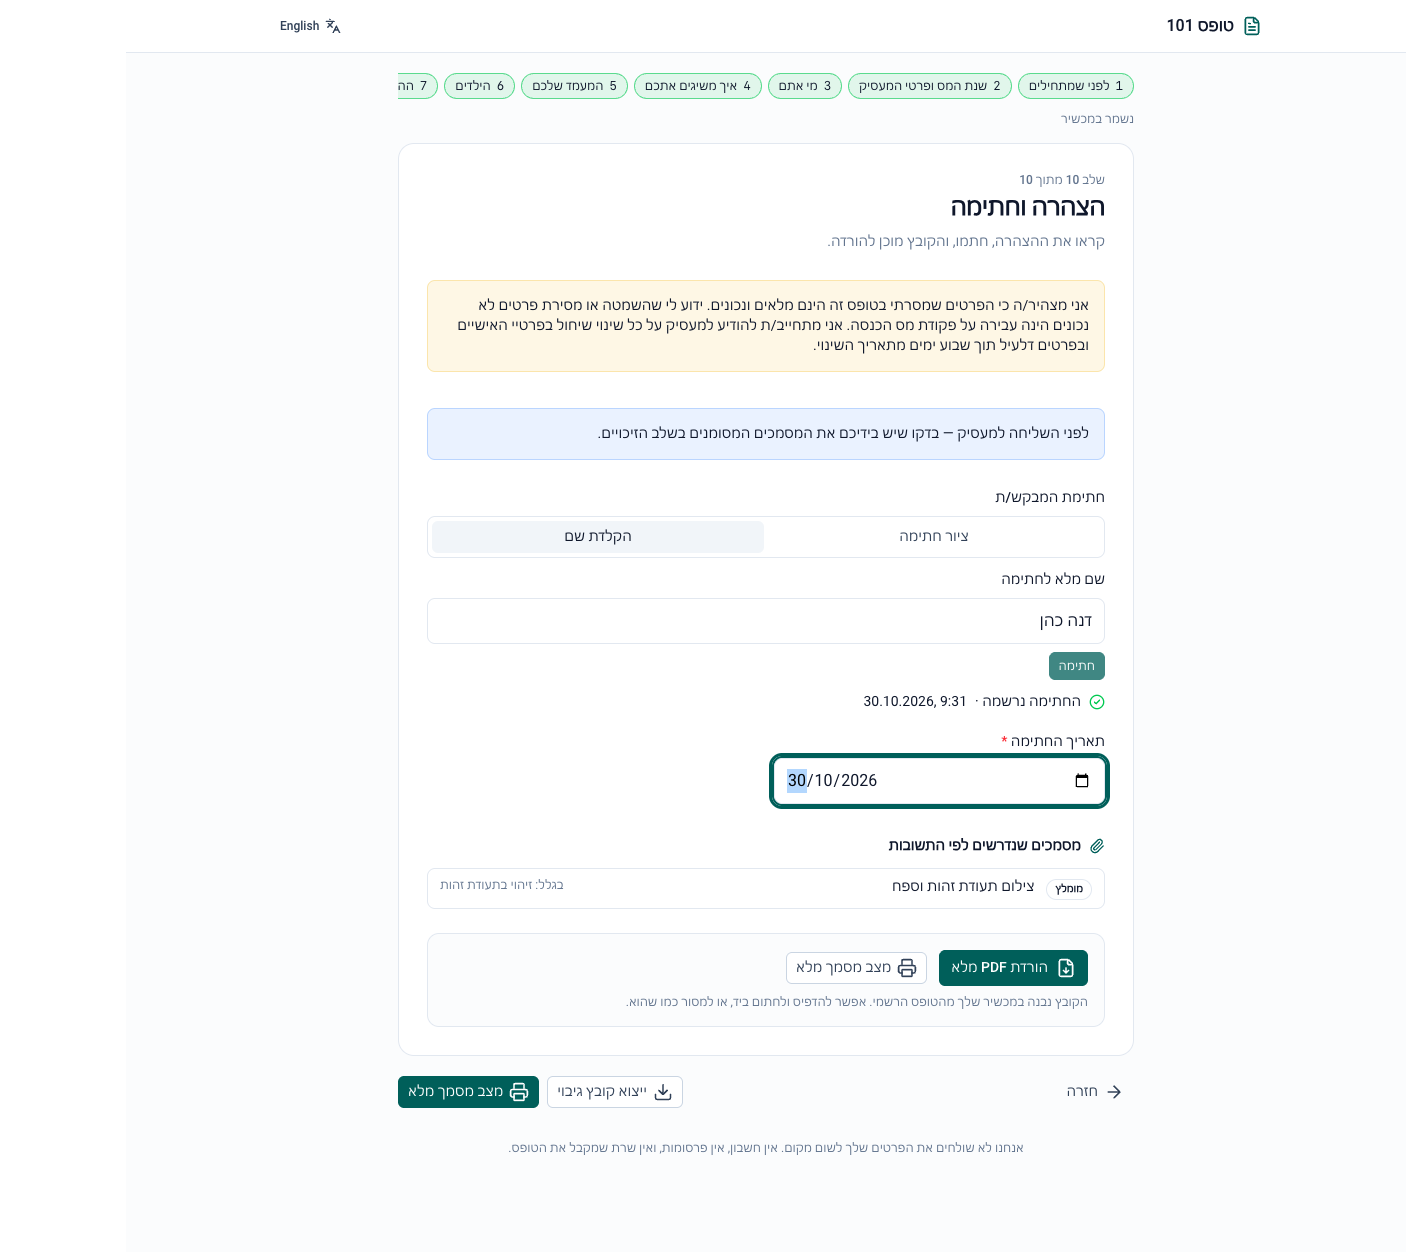
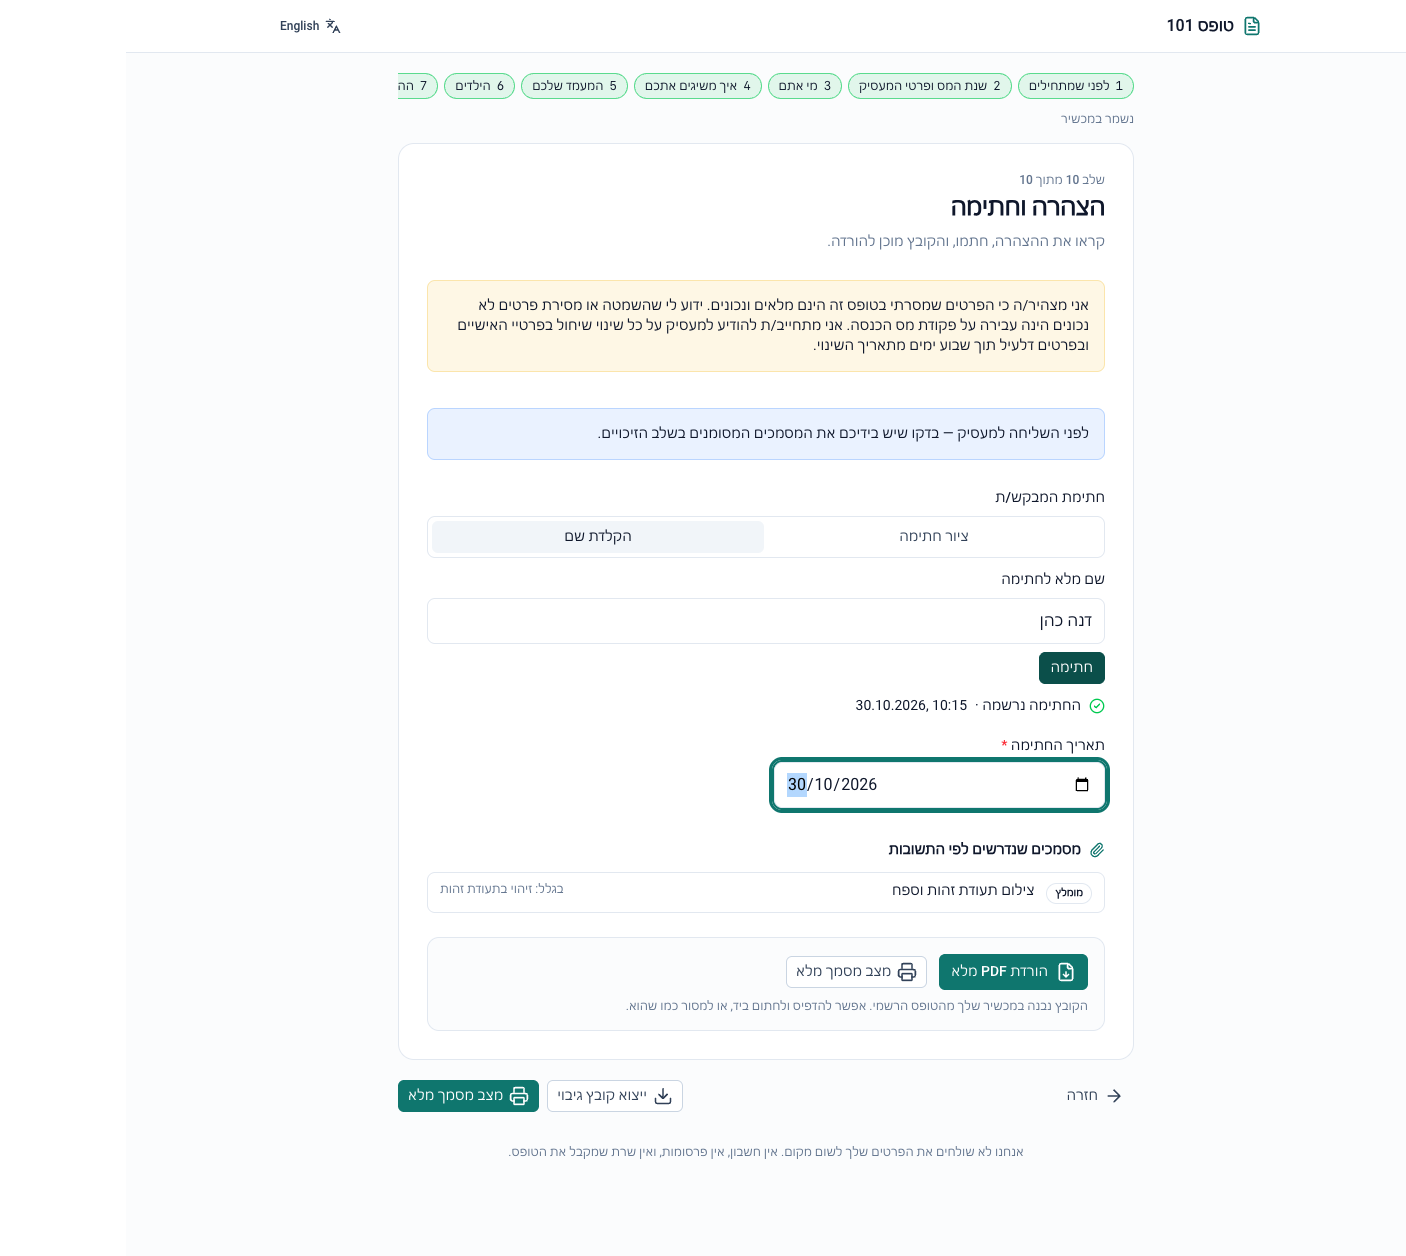
fix(a11y): deterministic primary token (html:root) + explicit sign button colours
CI caught a colour-contrast failure the local run missed: a plain ':root'
override of --ui-primary is cascade-order dependent, so the generated CSS could
win and leave white text on the stock teal. Higher-specificity 'html:root' makes
it deterministic; the small sign button now carries explicit colours.

diff --git a/app/assets/css/main.css b/app/assets/css/main.css
@@ -5,16 +5,27 @@
  * Fonts: NO external requests. We rely on the OS Hebrew stack. If we later ship
  * a webfont it must be self-hosted in /public/fonts (see kb/eng/privacy-enforcement.md).
  */
+/*
+ * Custom primary scale. Defining it in `@theme` (instead of overriding
+ * `--ui-primary` in `:root`) makes Nuxt UI derive its own tokens from it, so the
+ * cascade order of generated CSS cannot change the rendered colour.
+ * Values are chosen for ≥4.5:1 against white text.
+ */
 @theme {
   --font-sans: "Heebo", "Assistant", "Segoe UI", "Arial Hebrew", "Noto Sans Hebrew",
     system-ui, -apple-system, sans-serif;
   --font-mono: ui-monospace, "SF Mono", Menlo, Consolas, monospace;
 }
 
-:root {
+/*
+ * `html:root` (specificity 0,2,0) beats Nuxt UI's own `:root` token block no
+ * matter which stylesheet is emitted first — a plain `:root` override was
+ * order-dependent and passed locally while failing on CI.
+ * #0f766e on white text = 4.94:1, and white on #0f766e = 4.94:1 (AA).
+ */
+html:root {
   color-scheme: light;
-  /* Contrast fix (kb/eng/testing.md): the default Nuxt UI teal fails AA on white. */
-  --ui-primary: var(--color-teal-800);
+  --ui-primary: #0f766e;
   --ui-text-dimmed: var(--color-slate-600);
 }
 

diff --git a/tools/e2e/flow.ts b/tools/e2e/flow.ts
@@ -152,6 +152,18 @@ const today = new Date()
 const iso = `${today.getFullYear()}-${String(today.getMonth() + 1).padStart(2, "0")}-${String(today.getDate()).padStart(2, "0")}`
 await page.fill("#f-sign\\.date", iso)
 await a11y("sign")
+
+if (process.env.E2E_DEBUG_STYLES) {
+  const styles = await page.evaluate(() => {
+    const root = getComputedStyle(document.documentElement)
+    const btns = Array.from(document.querySelectorAll("button")).map((b) => {
+      const cs = getComputedStyle(b)
+      return { text: (b.textContent || "").trim().slice(0, 24), bg: cs.backgroundColor, color: cs.color, size: cs.fontSize }
+    })
+    return { primary: root.getPropertyValue("--ui-primary").trim(), btns: btns.filter((b) => b.text) }
+  })
+  console.log("STYLES", JSON.stringify(styles, null, 1))
+}
 await page.screenshot({ path: `${OUT}/07-sign.png`, fullPage: true })
 
 /* ---------------------------------------------------------------------- pdf */

diff --git a/app/components/form/FormSignature.vue b/app/components/form/FormSignature.vue
@@ -187,7 +187,13 @@ const signedLabel = computed(() =>
           class="w-full rounded-lg border border-default bg-default px-3 py-2.5 text-base text-highlighted"
           @keydown.enter.prevent="commitTyped"
         />
-        <UButton type="button" size="sm" @click="commitTyped">{{ t("sign.sign") }}</UButton>
+        <button
+          type="button"
+          class="rounded-md bg-teal-800 px-3 py-1.5 text-sm font-medium text-white transition hover:bg-teal-900 focus-visible:ring-2 focus-visible:ring-teal-900"
+          @click="commitTyped"
+        >
+          {{ t("sign.sign") }}
+        </button>
       </div>
 
       <p v-if="signedLabel" class="mt-3 flex items-center gap-2 text-sm text-highlighted" role="status">
